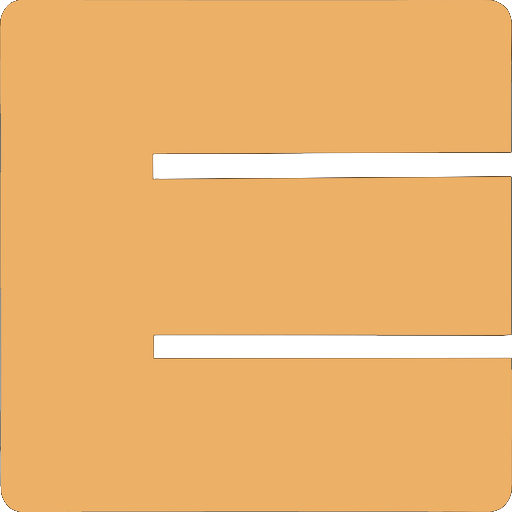
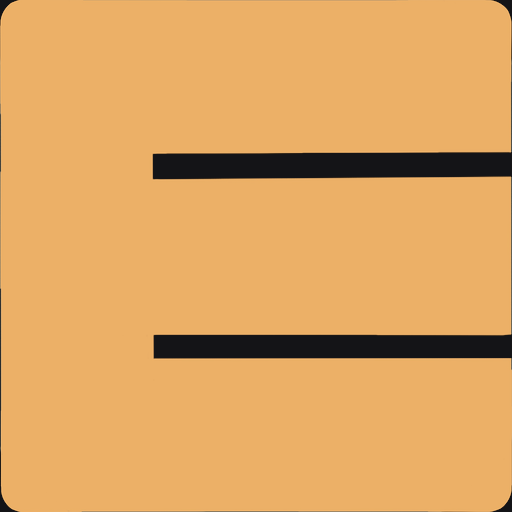
Bake die-ink into letter tiles instead of keying alpha in the material
Flatten the tiles' black onto the die body ink (#141417) so the match lives
entirely in the asset — no runtime alphaTest flag. Replaces the transparent-tile
approach; visually identical except the beveled corners, which are now flat ink.

diff --git a/src/components/dice3d/Die.tsx b/src/components/dice3d/Die.tsx
@@ -234,9 +234,6 @@ export default function Die({
               // specular highlights and read brighter; letter faces stay a touch matte
               roughness={i >= 4 ? 0.35 : 0.7}
               metalness={0}
-              // letter tiles carry a keyed alpha: the black regions drop out so the
-              // die body shows through instead of a flatter, deader pure black
-              alphaTest={i < 4 ? 0.5 : 0}
               polygonOffset
               polygonOffsetFactor={-4}
             />
